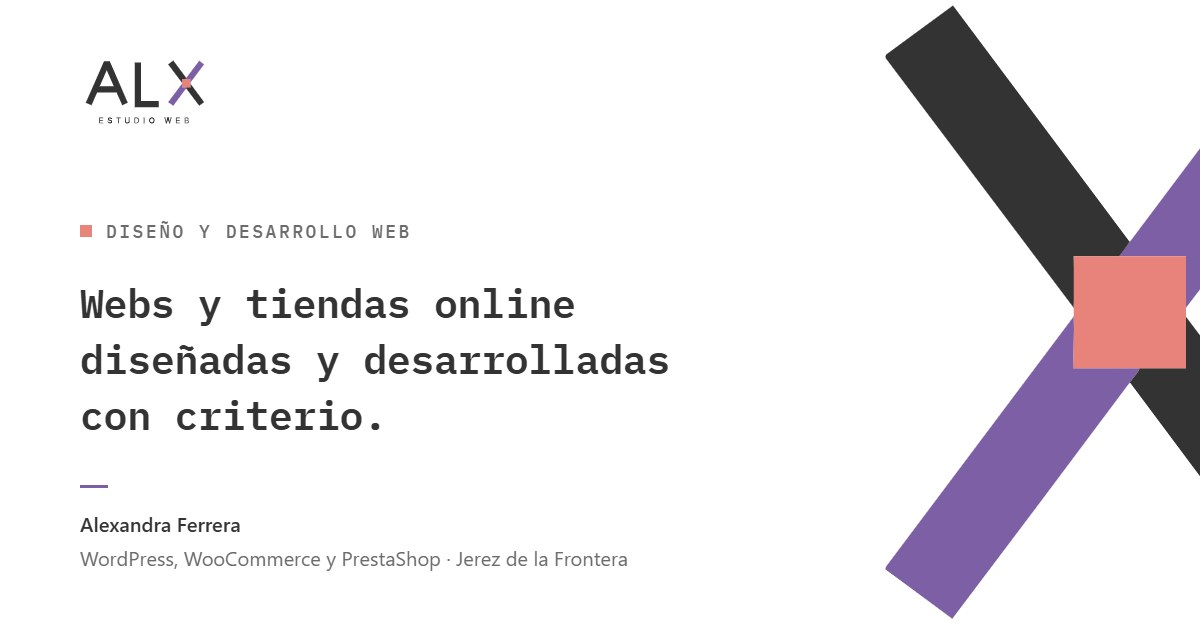
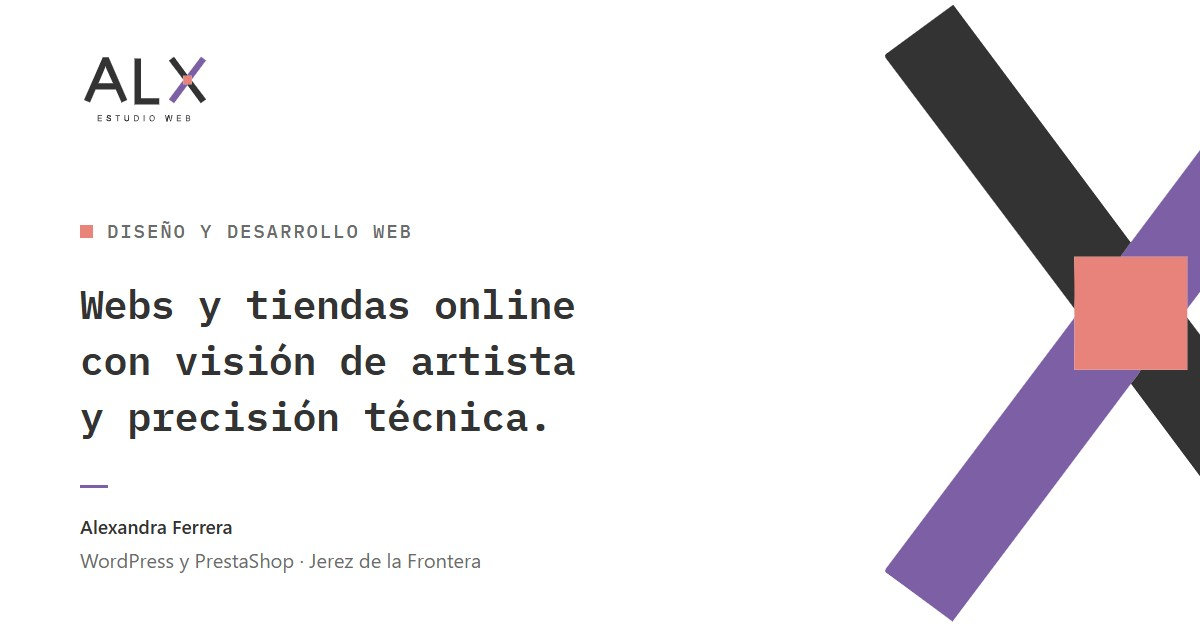
Actualiza la imagen para redes con el nuevo H1

diff --git a/servicios.html b/servicios.html
@@ -14,7 +14,7 @@
   <meta property="og:image" content="https://alx-estudioweb.netlify.app/img/marca/og-alx-estudio-web.jpg">
   <meta property="og:image:width" content="1200">
   <meta property="og:image:height" content="630">
-  <meta property="og:image:alt" content="Logotipo de ALX Estudio Web, la X del logotipo en grande y el texto: webs y tiendas online diseñadas y desarrolladas con criterio">
+  <meta property="og:image:alt" content="Logotipo de ALX Estudio Web, la X del logotipo en grande y el texto: webs y tiendas online con visión de artista y precisión técnica">
   <meta name="twitter:card" content="summary_large_image">
   <link rel="canonical" href="https://alx-estudioweb.netlify.app/servicios">
   <link rel="icon" href="favicon.svg" type="image/svg+xml">

diff --git a/agencias.html b/agencias.html
@@ -14,7 +14,7 @@
   <meta property="og:image" content="https://alx-estudioweb.netlify.app/img/marca/og-alx-estudio-web.jpg">
   <meta property="og:image:width" content="1200">
   <meta property="og:image:height" content="630">
-  <meta property="og:image:alt" content="Logotipo de ALX Estudio Web, la X del logotipo en grande y el texto: webs y tiendas online diseñadas y desarrolladas con criterio">
+  <meta property="og:image:alt" content="Logotipo de ALX Estudio Web, la X del logotipo en grande y el texto: webs y tiendas online con visión de artista y precisión técnica">
   <meta name="twitter:card" content="summary_large_image">
   <link rel="canonical" href="https://alx-estudioweb.netlify.app/agencias">
   <link rel="icon" href="favicon.svg" type="image/svg+xml">

diff --git a/contacto.html b/contacto.html
@@ -14,7 +14,7 @@
   <meta property="og:image" content="https://alx-estudioweb.netlify.app/img/marca/og-alx-estudio-web.jpg">
   <meta property="og:image:width" content="1200">
   <meta property="og:image:height" content="630">
-  <meta property="og:image:alt" content="Logotipo de ALX Estudio Web, la X del logotipo en grande y el texto: webs y tiendas online diseñadas y desarrolladas con criterio">
+  <meta property="og:image:alt" content="Logotipo de ALX Estudio Web, la X del logotipo en grande y el texto: webs y tiendas online con visión de artista y precisión técnica">
   <meta name="twitter:card" content="summary_large_image">
   <link rel="canonical" href="https://alx-estudioweb.netlify.app/contacto">
   <link rel="icon" href="favicon.svg" type="image/svg+xml">

diff --git a/sobre-mi.html b/sobre-mi.html
@@ -14,7 +14,7 @@
   <meta property="og:image" content="https://alx-estudioweb.netlify.app/img/marca/og-alx-estudio-web.jpg">
   <meta property="og:image:width" content="1200">
   <meta property="og:image:height" content="630">
-  <meta property="og:image:alt" content="Logotipo de ALX Estudio Web, la X del logotipo en grande y el texto: webs y tiendas online diseñadas y desarrolladas con criterio">
+  <meta property="og:image:alt" content="Logotipo de ALX Estudio Web, la X del logotipo en grande y el texto: webs y tiendas online con visión de artista y precisión técnica">
   <meta name="twitter:card" content="summary_large_image">
   <link rel="canonical" href="https://alx-estudioweb.netlify.app/sobre-mi">
   <link rel="icon" href="favicon.svg" type="image/svg+xml">

diff --git a/index.html b/index.html
@@ -14,7 +14,7 @@
   <meta property="og:image" content="https://alx-estudioweb.netlify.app/img/marca/og-alx-estudio-web.jpg">
   <meta property="og:image:width" content="1200">
   <meta property="og:image:height" content="630">
-  <meta property="og:image:alt" content="Logotipo de ALX Estudio Web, la X del logotipo en grande y el texto: webs y tiendas online diseñadas y desarrolladas con criterio">
+  <meta property="og:image:alt" content="Logotipo de ALX Estudio Web, la X del logotipo en grande y el texto: webs y tiendas online con visión de artista y precisión técnica">
   <meta name="twitter:card" content="summary_large_image">
   <link rel="canonical" href="https://alx-estudioweb.netlify.app/">
   <script type="application/ld+json">
